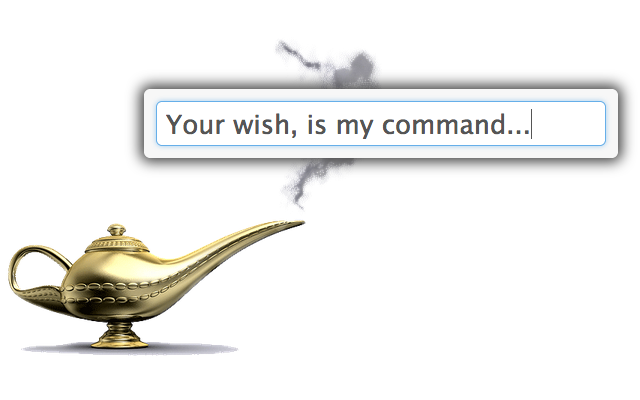
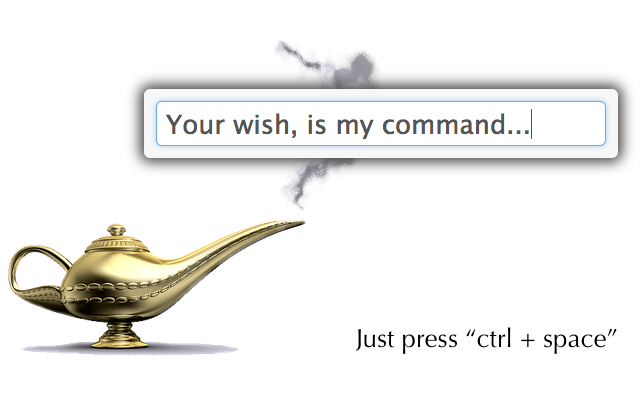
Updating readme, and adding some more pictures.

Changed region(s): [[0.5625, 0.81, 0.9688, 0.87]]

diff --git a/extension-files/inject/extension.js b/extension-files/inject/extension.js
@@ -22,7 +22,7 @@ if (angularExists) {
 }
 
 function makeWishForAnchors() {
-  $($('a').get().reverse()).each(function() {
+  $($('a,button').get().reverse()).each(function() {
     var $a = $(this);
     var magicWords = getMagicWords($a);
     if (magicWords.length > 0) {
@@ -61,6 +61,10 @@ function getMagicWords($a) {
   var text = formatMagicWord($a.text());
   if (text && text.length > 2) {
     magicWords.push(text);
+  }
+  var value = formatMagicWord($a.attr('value'));
+  if (value && value.length > 2) {
+    magicWords.push(value);
   }
   var title = formatMagicWord($a.attr('title'));
   if (title && title.length > 2) {

diff --git a/README.md b/README.md
@@ -1,0 +1,23 @@
+##Note: To activate, press `CTRL + SPACE`
+
+#Genie's Lamp
+
+A Chrome extension that puts genie's lamp on any page you're on.
+Basically, the extension searches the page for links and buttons
+and makes each of those a wish (lets you "click" those using the
+keyboard). For example, if I had a link on the page like this:
+
+`<a href="www.google.com">Google Home Page</a>`
+
+Then I could type `ctrl + space`, type "Goo" and that link would
+show up as a wish. Then I'd hit `enter` and I would be taken to
+`www.google.com`.
+
+#Features
+
+Typing an apostrophe (') will show all the available wishes.
+
+
+#Issues
+
+Please report any issues [here](http://github.com/kentcdodds/genies-lamp/issues).
